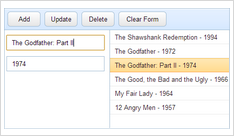
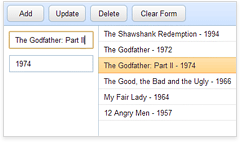
add organogram docs and update images of getting started page

diff --git a/data/desktop/getting_started.md b/data/desktop/getting_started.md
@@ -5,7 +5,7 @@ Getting Started
 
 <div style="position: relative;overflow: hidden; margin-top:20px;">
 	<div style="float: left;height: 155px;padding: 5px 10px 5px 10px;">
-    	<a href="tutorials/quick_start.md" class="img-to-tutorial"><img src="tutorials/small_dataview.png"/></a>
+    	<a href="tutorials/quick_start.md" class="img-to-tutorial"><img src="tutorials/quick_start_guide.png"/></a>
     </div>
    	<div class="right-part-tutorial">
     	<a class="link-to-tutorial" href="tutorials/quick_start.md"><b>Quick Start Guide</b></a>
@@ -49,7 +49,7 @@ Getting Started
 
 <div style="position: relative;overflow: hidden; margin-top:20px;">
 	<div style="float: left;height: 155px;padding: 5px 10px 5px 10px;">
-    	<a href="tutorials/introduction_to_events.md" class="img-to-tutorial"><img src="tutorials/events.png"/></a>
+    	<a href="tutorials/introduction_to_events.md" class="img-to-tutorial"><img src="tutorials/introduction_to_events.png"/></a>
     </div>
    	<div class="right-part-tutorial">
     	<a class="link-to-tutorial" href="tutorials/introduction_to_events.md"><b>Introduction to Events</b></a>
@@ -67,7 +67,7 @@ Getting Started
 
 <div style="position: relative;overflow: hidden; margin-top:20px;">
 	<div style="float: left;height: 155px;padding: 5px 10px 5px 10px;">
-    	<a href="datatable/quick_start.md" class="img-to-tutorial"><img src="tutorials/datatable.png"/></a>
+    	<a href="datatable/quick_start.md" class="img-to-tutorial"><img src="tutorials/quick_start_datatable.png"/></a>
     </div>
    	<div class="right-part-tutorial">
     	<a class="link-to-tutorial" href="datatable/quick_start.md"><b>Quick Start with Datatable</b></a>
@@ -79,14 +79,14 @@ Getting Started
 </div>
 
 
-###Webix Docs Guide
+###Webix Documentation
 
 <div style="position: relative;overflow: hidden; margin-top:20px;">
 	<div style="float: left;height: 155px;padding: 5px 10px 5px 10px;">
-    	<a href="tutorials/road_map.md" class="img-to-tutorial"><img src="tutorials/roadmap.png"/></a>
+    	<a href="tutorials/road_map.md" class="img-to-tutorial"><img src="tutorials/webix_docs_roadmap.png"/></a>
     </div>
    	<div class="right-part-tutorial">
-    	<a class="link-to-tutorial" href="tutorials/road_map.md"><b>Webix Docs Roadmap</b></a>
+    	<a class="link-to-tutorial" href="tutorials/road_map.md"><b>Webix Docs Guide</b></a>
         <br><br>
         <div>
         This chapter guides you through the contents of Webix documentation and gives a short description of each section.

diff --git a/data/api/refs/ui.organogram.md b/data/api/refs/ui.organogram.md
@@ -2,10 +2,6 @@ ui.organogram
 =============
 
 
-dummy stub
-
-{{todo replace with real description. }}
-
 <div class='webixdoc_parents'><span>Based on: </span>
 <a href="api/refs/autotooltip.md">AutoTooltip</a>, <a href="api/refs/group.md">Group</a>, <a href="api/refs/treeapi.md">TreeAPI</a>, <a href="api/refs/datamarks.md">DataMarks</a>, <a href="api/refs/selectionmodel.md">SelectionModel</a>, <a href="api/refs/mouseevents.md">MouseEvents</a>, <a href="api/refs/scrollable.md">Scrollable</a>, <a href="api/refs/renderstack.md">RenderStack</a>, <a href="api/refs/dataloader.md">DataLoader</a>, <a href="api/refs/datastore.md">DataStore</a>, <a href="api/refs/atomdataloader.md">AtomDataLoader</a>, <a href="api/refs/ui.view.md">ui.view</a>, <a href="api/refs/ui.baseview.md">ui.baseview</a>, <a href="api/refs/settings.md">Settings</a>, <a href="api/refs/destruction.md">Destruction</a>, <a href="api/refs/basebind.md">BaseBind</a>, <a href="api/refs/uiextension.md">UIExtension</a>, <a href="api/refs/eventsystem.md">EventSystem</a></div>
 

diff --git a/data/api/refs/treestore.md b/data/api/refs/treestore.md
@@ -4,7 +4,7 @@ TreeStore
 
 {{memo Hierarchical store.. }}
 
-Can't be initialized directly; must be extended from [DataStore](api/datastore.md).
+Can't be initialized directly; must be extended from [DataStore](api/refs/datastore.md).
 
 ~~~js
 var store = new webix.DataStore();
@@ -41,10 +41,10 @@ webix.extend(store, webix.TreeStore, true);
 
 
 {{api
-- api/treestore_page without name api/treestore_onafteradd_event.md_event.md - 
+
 - api/treestore_onafterdelete_event.md - fires after item deleting
 - api/treestore_onbeforedelete_event.md - fires before item deleting
-- api/treestore_onstoreupdated_event.md - fires after data is changed in datastore
+
 }}
 
 

diff --git a/data/desktop/components.md b/data/desktop/components.md
@@ -71,6 +71,10 @@ Data components are used to present data of a specified type on the page. Such c
     	<img src="desktop/icons/list.png"/>
     	<br>List
     </a>
+    <a href="desktop/organogram.md">
+    	<img src="desktop/icons/organogram.png"/>
+    	<br>Organogram
+    </a>
     <a href="desktop/property_sheet.md" style="clear:left;">
     	<img src="desktop/icons/propertysheet.png"/>
     	<br>PropertySheet
@@ -258,6 +262,7 @@ div.controls_group img {
 - desktop/list.md
 - desktop/menu.md
 - desktop/multiview.md
+- desktop/organogram.md
 - desktop/popup.md
 - desktop/property_sheet.md
 - desktop/scrollview.md

diff --git a/data/api/refs/treestore_events.md b/data/api/refs/treestore_events.md
@@ -2,16 +2,12 @@ Events
 =======
 
 {{api
-- api/treestore_page without name api/treestore_onafteradd_event.md_event.md - 
 - api/treestore_onafterdelete_event.md - fires after item deleting
 - api/treestore_onbeforedelete_event.md - fires before item deleting
-- api/treestore_onstoreupdated_event.md - fires after data is changed in datastore
 }}
 
 @index:
-- api/treestore_page without name api/treestore_onafteradd_event.md_event.md
 - api/treestore_onafterdelete_event.md
 - api/treestore_onbeforedelete_event.md
-- api/treestore_onstoreupdated_event.md
 
 

diff --git a/data/desktop/organogram.md b/data/desktop/organogram.md
@@ -1,0 +1,15 @@
+Organogram
+==============
+
+API Reference
+---------------
+
+- [Methods, properties and events](api/refs/ui.organogram.md)
+- [Samples]()
+
+Overview
+----------
+
+Organogram presents an organization chart component that can be used for creating hierarchical organization diagrams.
+It inherits it's API and structure from TreeStore. Its dimensions can be easily customized. 
+The component items can include images and lists and can be styled according to the user's needs. 

diff --git a/data/api/toc/ui.md b/data/api/toc/ui.md
@@ -426,6 +426,7 @@ table.webixtoc td{
 - api/refs/ui.list.md
 - api/refs/ui.menu.md
 - api/refs/ui.multiview.md
+- api/refs/ui.organogram.md
 - api/refs/ui.pager.md
 - api/refs/ui.popup.md
 - api/refs/ui.property.md

diff --git a/data/tutorials/road_map.md b/data/tutorials/road_map.md
@@ -1,4 +1,4 @@
-Webix Docs Roadmap
+Webix Docs Guide
 ====================
 
 To make a great app you need to learn different things but if you're new to Webix you might be wondering where to begin. 
